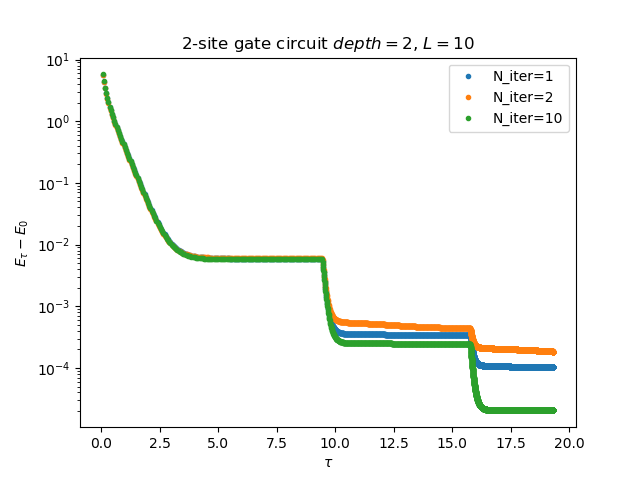
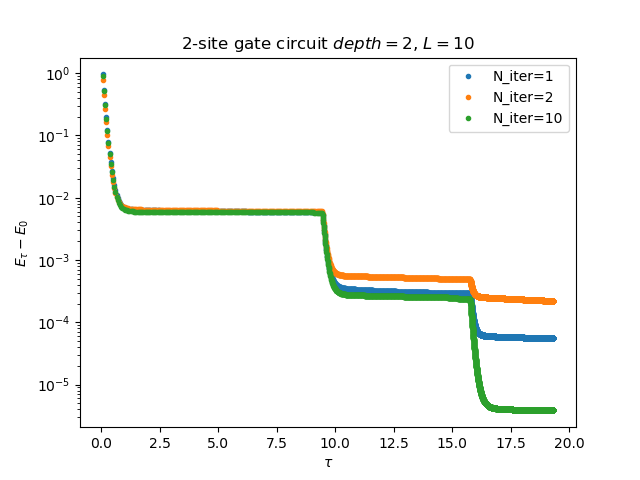
initialization, basis changed

diff --git a/qTEBD_circuit.py b/qTEBD_circuit.py
@@ -15,7 +15,9 @@ def get_H_TFI(L, J, g):
     d = 2
 
     def h(gl, gr, J):
-        return (-np.kron(sz, sz) * J - gr * np.kron(id, sx) - gl * np.kron(sx, id)).reshape([d] * 4)
+        # return (-np.kron(sz, sz) * J - gr * np.kron(id, sx) - gl * np.kron(sx, id)).reshape([d] * 4)
+        return (-np.kron(sx, sx) * J - gr * np.kron(id, sz) - gl * np.kron(sz, id)).reshape([d] * 4)
+
     H = []
     for j in range(L - 1):
         if j == 0:
@@ -489,4 +491,4 @@ if __name__ == "__main__":
     # pl.legend(['$depth=%d$'%depth])
     pl.legend()
     pl.savefig('figure/sinit_circuit_L%d_depth%d.png' % (L, depth))
-    pl.show()
+    # pl.show()

diff --git a/README.md b/README.md
@@ -10,18 +10,19 @@
 ![](figure/circuit_L10_depth1.png)
 
 ### n-layer circuit
-There are different way to optimize n-layer circuit. Here we consider to randomly initialize 2-layer and optimize Niter time per time step.
+
+* There are different way to optimize n-layer circuit. Here we consider to randomly initialize 2-layer and optimize Niter time per time step.
+ 
 ![](figure/circuit_L10_depth2.png)
 
 
-With small initialization
+* With near identity initialization and change Hamiltonian basis.
 ![](figure/sinit_circuit_L10_depth2.png)
 
 
 ## TODO
-. Iterative optimization for each layer. Optimize first layer and fix first layer. Then add second layer and optimize second layer and so on.
-
-. Scaling with Niter
-. The effect in the pattern of the layer of gates
+* Iterative optimization for each layer. Optimize first layer and fix first layer. Then add second layer and optimize second layer and so on.
+* Scaling with Niter
+* The effect in the pattern of the layer of gates
 
 
